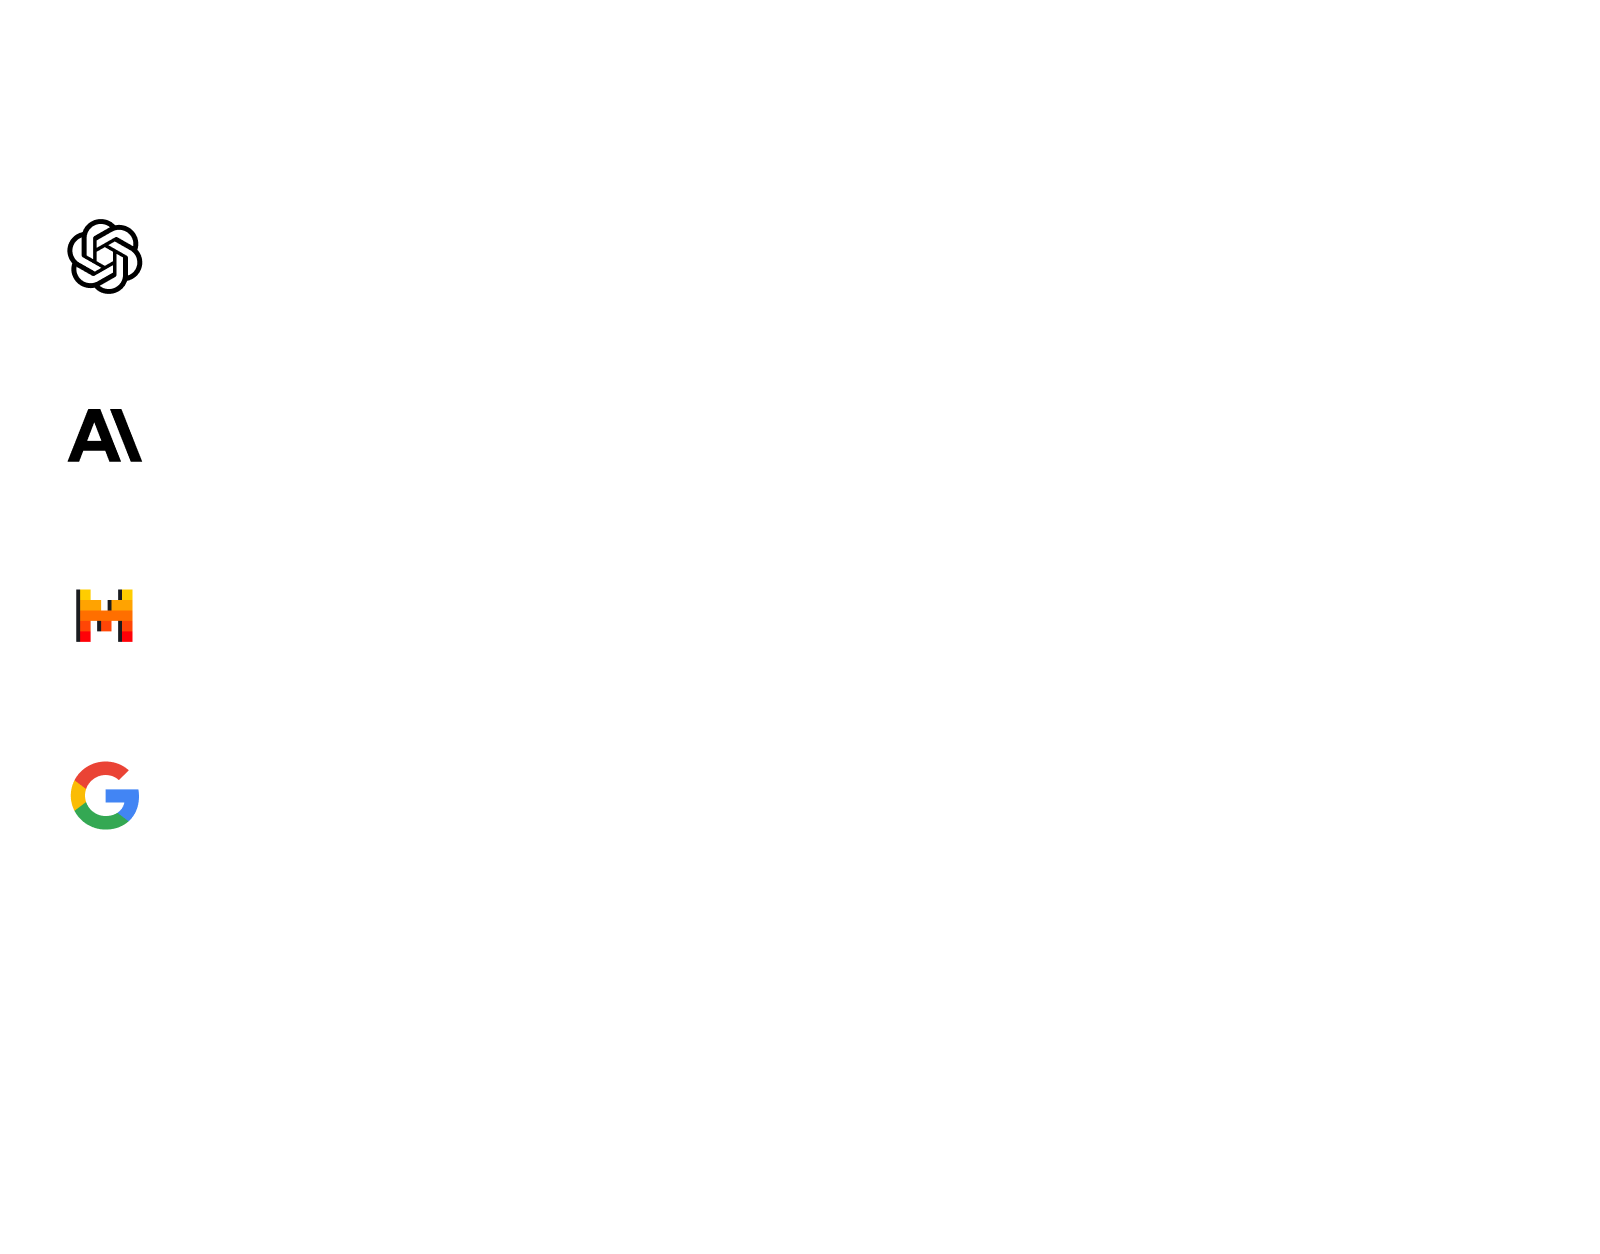
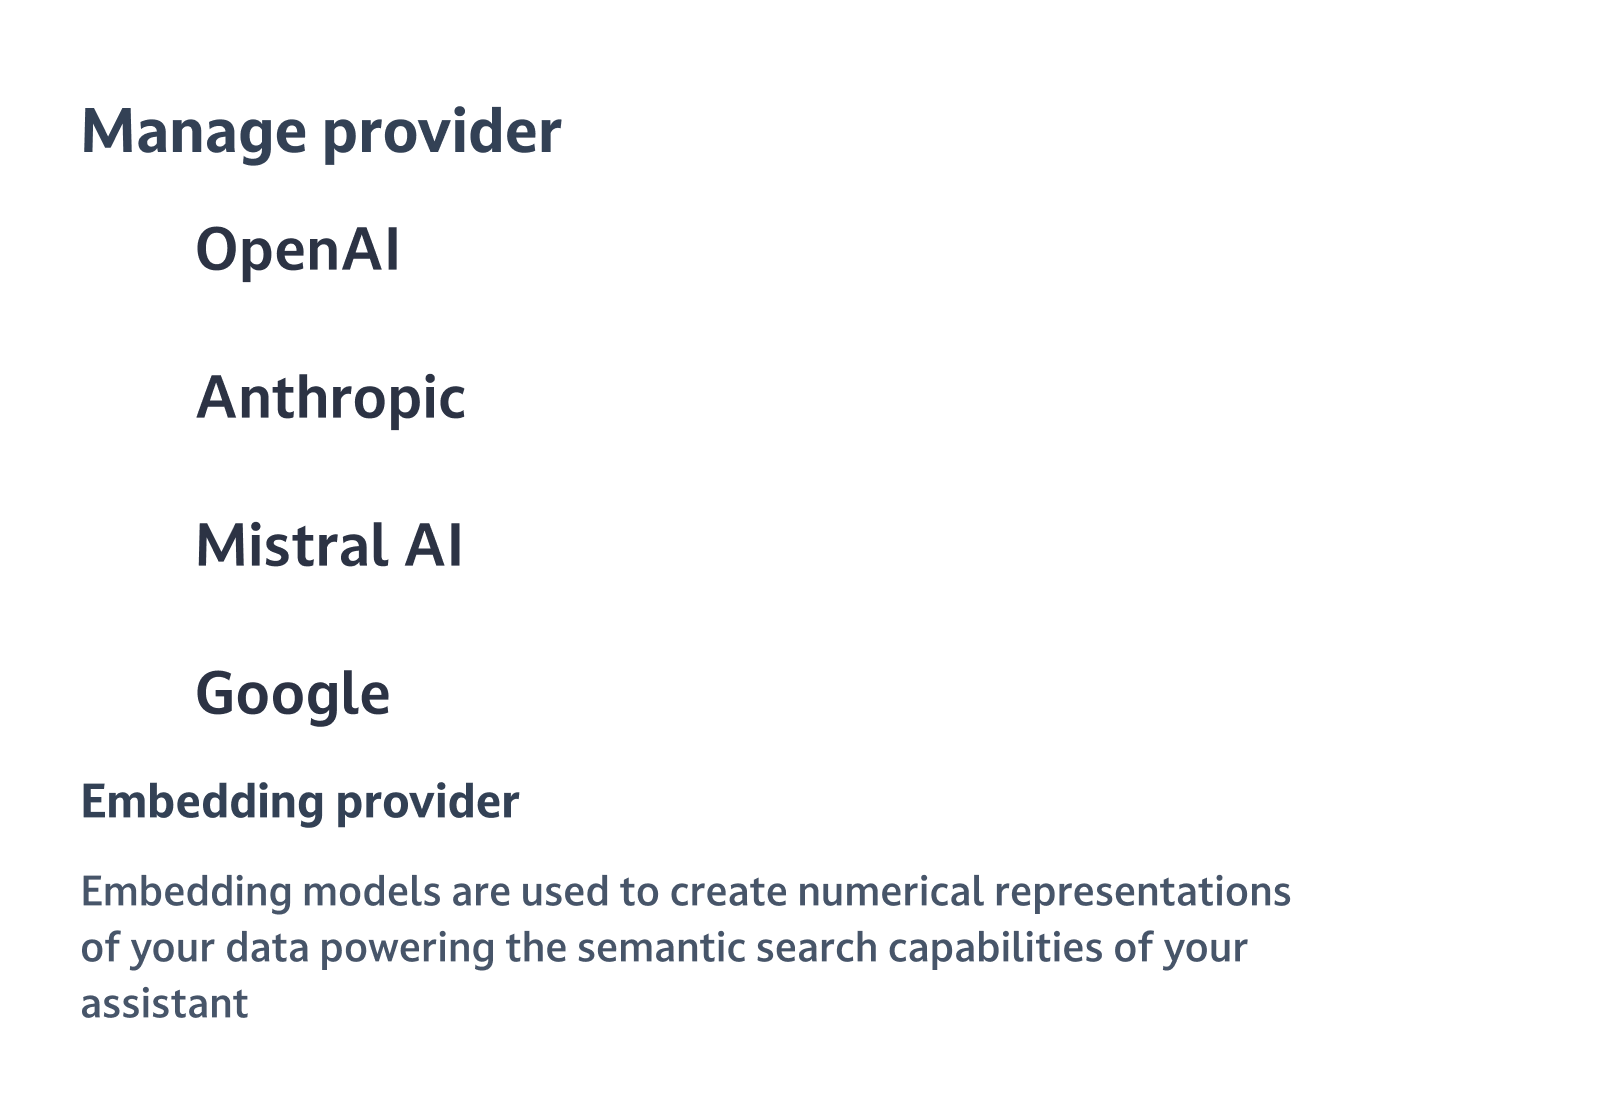
fixing images

diff --git a/front/pages/home/security.tsx b/front/pages/home/security.tsx
@@ -30,11 +30,8 @@ const MainVisualModels = () => (
     <Div3D depth={-20}>
       <img src="/static/landing/provider/provider1.png" />
     </Div3D>
-    <Div3D depth={20} className="absolute top-0">
-      <img src="/static/landing/provider/provider2.png" />
-    </Div3D>
     <Div3D depth={40} className="absolute top-0">
-      <img src="/static/landing/provider/provider4.png" />
+      <img src="/static/landing/provider/provider2.png" />
     </Div3D>
     <Div3D depth={70} className="absolute top-0">
       <img src="/static/landing/provider/provider3.png" />
